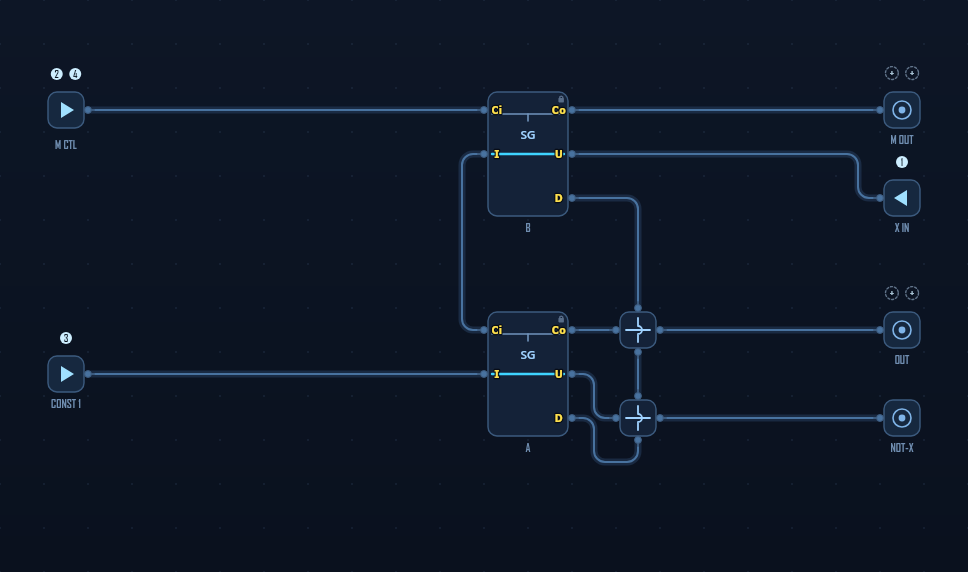
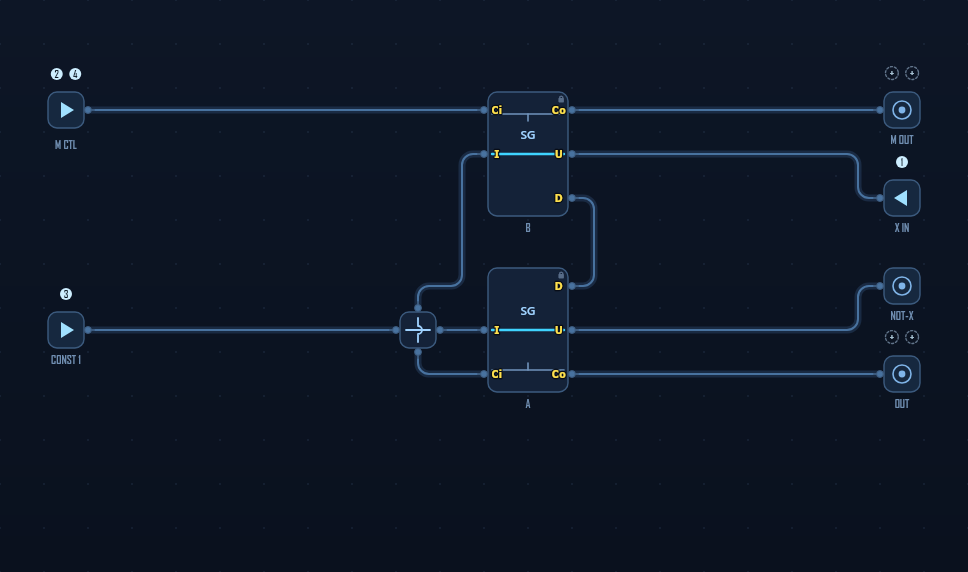
w2l4 ALT: flipped-A variant — one crossing, one Crossover (Michael's design)
A mounted upside-down (rot2+mir) at (11,6) with OUT and NOT-X swapped: the
copy loop A.D->B.D becomes a dead-straight east-flank run and the single
remaining forced crossing is the B->A control link over the CONST feed,
bridged by ONE Crossover at (9,7). Palette CROSS:1, par 1. The longer control
link eats the X-before-CONST margin, so the CONST pulse launches dt+2 later
(the schedule-spacing lever) - worst-case margin 12.9 ps @30 seeds, certified
100 seeds, suite fully green (531+196). Note dt+1 is WORSE than 0 or +2 (it
shifts which pulse pairs collide) - the margin probe caught it.

Fork of the 2-crossover v3 on sg-port-reorder; both stay live until Michael
play-tests and picks one.

Changed region(s): [[0.031, 0.3269, 0.9607, 0.8024], [0.6198, 0.8024, 0.6508, 0.8322]]

diff --git a/js/levels.js b/js/levels.js
@@ -250,36 +250,36 @@ goes to its one fixed output port, end of story.
 <br><br>This rig is wired-for-you EXCEPT the wires. Two switch gates do it. <b>A</b> is the copier; <b>B</b> is a multiplexer that feeds signals into A’s control line, steered by the <b>M</b> pulses.
 <br><br>If <b>X</b> arrives, it routes through B into A’s control: A flips, and the pulse leaves at <b>OUT</b> — copy #1. A is now flipped, so the <b>constant</b> pulse takes A’s other road, loops back through B into A’s control, flips A <i>back</i>, and exits <b>OUT</b> — copy #2. Two pulses out; A and B end exactly as they began.
 <br><br>No <b>X</b>? A never flips, so the constant pulse leaves on the <b>¬X</b> line instead — incidental “garbage” you could uncompute later with a mirror circuit.
-<br><br>There’s no clock: <b>order</b> is everything. X must reach A before the constant does — keep the B→A control link snug. And notice the return loop: climbing back up to B it must cross <i>both</i> output rails — two genuinely unavoidable crossings. Bridge each with a <b>Crossover</b> so the signals pass without touching. (12 wires + the 2 crossovers.)`,
-      hint: 'Mux: M→B.Ci, B.Co→M OUT; trigger X→B.U (from the right). Control link: B.I→A.Ci down the left flank. Copy: CONST→A.I; A.Co and A.U head east to OUT / NOT-X, each through a Crossover’s A·B rail; the return loop A.D→B.D climbs the Crossovers’ vertical C·D ports.',
+<br><br>There’s no clock: <b>order</b> is everything. X must reach A before the constant does. Notice A is mounted <i>upside-down</i> (control rail on the bottom) — that lines the copy loop up dead straight. The price: one genuinely unavoidable crossing, where the B→A control link crosses the constant’s feed. Bridge it with the <b>Crossover</b>. (10 wires + the crossover.)`,
+      hint: 'Mux: M→B.Ci, B.Co→M OUT; trigger X→B.U (from the right). Control link: B.I dives down through the Crossover’s C·D ports to A.Ci (bottom-left of the flipped A). Copy: CONST→A.I through the Crossover’s A·B rail; A.D→B.D runs straight up the east flank; A.Co→OUT, A.U→NOT-X.',
       success: 'X in, two X’s out — and both switches end exactly as they began. Copying without erasing, paid for with one constant pulse. (When X is absent you got ¬X — a NOT, for free.)',
       notebook: ['copying', 'crossover'],
       fixed: [
-        el('L_M', 'LAUNCHER', 1, 2), el('L_1', 'LAUNCHER', 1, 8), el('L_X', 'LAUNCHER', 20, 4, 2),
-        el('tsgB', 'TSG', 11, 2), el('tsgA', 'TSG', 11, 7),
-        el('D_mrec', 'DETECTOR', 20, 2), el('D_out', 'DETECTOR', 20, 7),
-        el('D_notx', 'DETECTOR', 20, 9),
+        el('L_M', 'LAUNCHER', 1, 2), el('L_1', 'LAUNCHER', 1, 7), el('L_X', 'LAUNCHER', 20, 4, 2),
+        el('tsgB', 'TSG', 11, 2), el('tsgA', 'TSG', 11, 6, 2, { mir: true }),
+        el('D_mrec', 'DETECTOR', 20, 2), el('D_notx', 'DETECTOR', 20, 6),
+        el('D_out', 'DETECTOR', 20, 8),
       ],
       labels: { L_X: 'X IN', L_M: 'M CTL', L_1: 'CONST 1', D_out: 'OUT', D_notx: 'NOT-X', D_mrec: 'M OUT', tsgA: 'A', tsgB: 'B' },
-      palette: { CROSS: 2 },
+      palette: { CROSS: 1 },
       cases: [
         {
           name: 'X = 1', inputs: [
             { launcher: 'L_X', pol: P }, { launcher: 'L_M', pol: P },
-            { launcher: 'L_1', pol: P }, { launcher: 'L_M', pol: P, dt: 5 },
+            { launcher: 'L_1', pol: P, dt: 2 }, { launcher: 'L_M', pol: P, dt: 5 },
           ],
           expect: { D_out: [P, P], D_notx: [], D_mrec: [P, P] },
           finalStates: { tsgA: 'up', tsgB: 'up' },
         },
         {
           name: 'X = 0', inputs: [
-            { launcher: 'L_M', pol: P }, { launcher: 'L_1', pol: P }, { launcher: 'L_M', pol: P, dt: 5 },
+            { launcher: 'L_M', pol: P }, { launcher: 'L_1', pol: P, dt: 2 }, { launcher: 'L_M', pol: P, dt: 5 },
           ],
           expect: { D_out: [], D_notx: [P], D_mrec: [P, P] },
           finalStates: { tsgA: 'up', tsgB: 'up' },
         },
       ],
-      parElements: 2, parHeat: 0,
+      parElements: 1, parHeat: 0,
     },
 
     {
